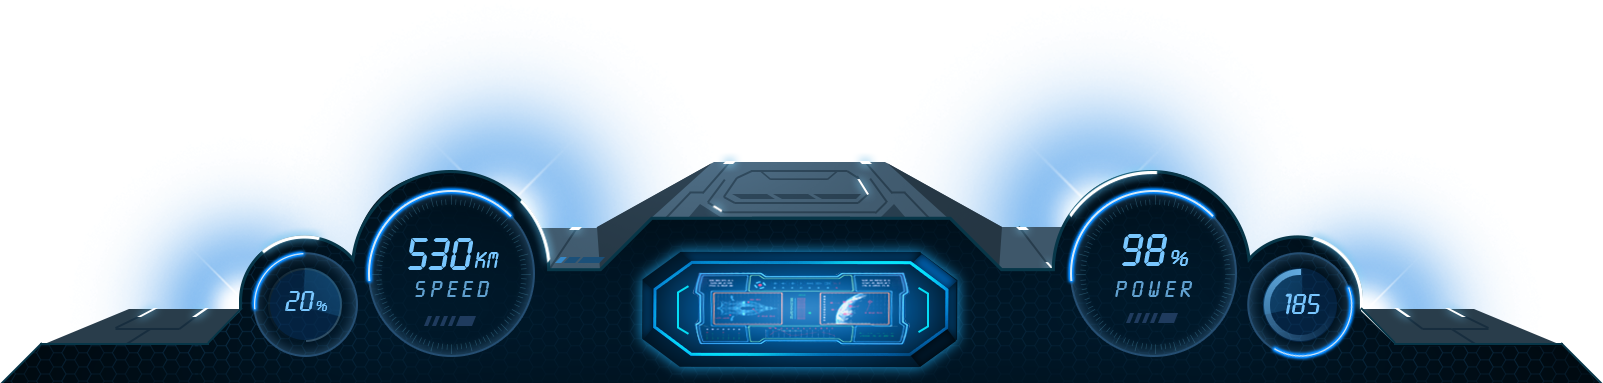
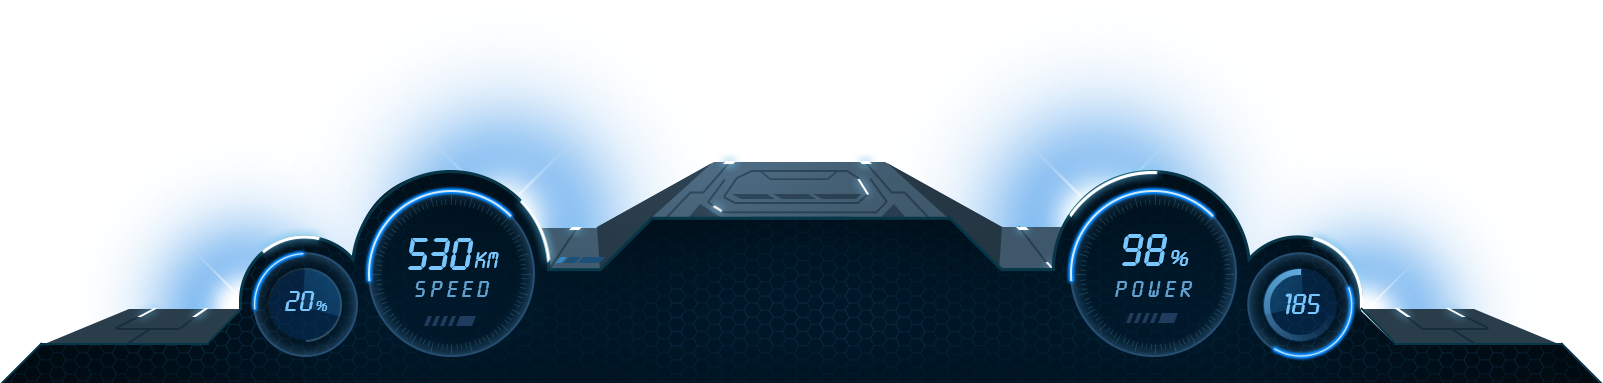
add planet

Changed region(s): [[0.3743, 0.6319, 0.6238, 1.0]]

diff --git a/js/page.js b/js/page.js
@@ -1,4 +1,4 @@
-(function ($) {
+(function ($, TL, TM) {
 	var HONOR = {};
 
 	// 入场动画
@@ -11,7 +11,8 @@
 			currentChar = 1;
 
 		var init = function(){
-			startTyping(text, 50, "test");
+			// startTyping(text, 50, "test");
+			showPlanet();
 		}
 
 		var type = function(){
@@ -23,6 +24,10 @@
 				if (currentChar<=text.length)
 				{
 					setTimeout(type, delay);
+				}else{
+					console.log("complete")
+					// 显示星球
+
 				}
 			}	
 		}
@@ -34,15 +39,39 @@
 			destination=destinationParam;
 			type();
 		}
+
+		var showPlanet = function(){
+			var planet1 = $('.planet-1');
+			var planet2 = $('.planet-2');
+			TL.from(planet1, 5, {left: '50%', top: '0%', scale: .1, opacity: .5, onComplete: completePlanetHandler})
+			TL.from(planet2, 5, {left: '40%', top: '45%', scale: .3, opacity: .5})
+		}
+
+		var completePlanetHandler = function(){
+			// 显示猜题入口
+			console.log('jajs')
+		}
 		
 		return {
 			init: init
 		};
 	})();
 
+	// 控制面板
+	HONOR.Panel = (function(){
+		var init = function(){
+
+		}
+
+		return {
+			init: init
+		}
+	})();
+
+	// 启动飞船
 	HONOR.Landing.init();
 
-})(jQuery);
+})(jQuery, TweenLite, TweenMax);
 
 
 

diff --git a/scss/partials/panel.scss b/scss/partials/panel.scss
@@ -1,0 +1,48 @@
+.panel{
+	position: fixed;
+	width: percentage(1603/1920);
+	height: percentage(383/1080);
+	bottom: 0;
+	left: 50%;
+	margin-left: -1/2 * percentage(1603/1920);
+	background: url(../images/ship.png) center bottom no-repeat;
+	background-size: contain;
+	.statusBox{
+		position: absolute;
+		width: percentage(345/1603);
+		height: percentage(145/383);
+		left: 50%;
+		margin-left: -1/2 * percentage(345/1603);
+		bottom: 0;
+		a{
+			position: absolute;
+			top: 0;
+		    bottom: 0;
+		    left: 0;
+		    right: 0;
+			text-align: center;
+			cursor: pointer;
+			span{
+				font-size: 18px;
+				color: #fff;
+				display: inline-block;
+   				vertical-align: middle;
+			}
+			&:before{
+				content: '';
+			    display: inline-block;
+			    vertical-align: middle;
+			    height: 100%;
+			}
+		}
+		.default{
+			display: none;
+			background: url(../images/panel-status-default.png) center bottom no-repeat;
+			background-size: contain;
+		}
+		.start{
+			background: url(../images/panel-status-progress.png) center bottom no-repeat;
+			background-size: contain;
+		}
+	}
+}

diff --git a/index.html b/index.html
@@ -9,6 +9,14 @@
 <body>
 	<!-- Main -->
 	<div class="scene full">
+		<!--星球-->
+		<div class="planets full">
+			<div class="planet-1"></div>
+			<div class="planet-2"></div>
+			<div class="planet-3"></div>
+			<div class="planet-4"></div>
+			<div class="planet-5"></div>
+		</div>
 		<!--对话框-->
 		<div class="text-container">
 			<table><tr><td id="test"></td></tr></table>
@@ -20,8 +28,17 @@
 	</div>
 
 	<!-- Control Pane -->
-	<div class="pane">
-		
+	<div class="panel">
+		<div class="statusBox">
+			<!--默认-->
+			<a class="default"></a>
+			<!--开始-->
+			<a class="start"><span>去猜！LET'S GO!</span></a>
+			<!--下一题-->
+			<a class="next"></a>
+			<!--提交-->
+			<a class="submit"></a>
+		</div>
 	</div>
 
 	<!-- Naviagtion & Share Tools -->

diff --git a/scss/partials/planet.scss b/scss/partials/planet.scss
@@ -1,0 +1,23 @@
+.planets{
+	.planet-1{
+		width: percentage(1287/$defaultWidth);
+		height: percentage(1493/$defaultHeight);
+		position: absolute;
+		opacity: .8;
+		left: 50%;
+		top: 20%;
+		margin-left: -1/2 * percentage(1287/$defaultWidth);
+		background: url(../images/planet-1.png) no-repeat;
+		background-size: contain;
+	}
+	.planet-2{
+		width: percentage(361/$defaultWidth);
+		height: percentage(322/$defaultHeight);
+		position: absolute;
+		opacity: .8;
+		left: -3%;
+		top: 10%;
+		background: url(../images/planet-2.png) no-repeat;
+		background-size: contain;
+	}
+}

diff --git a/scss/partials/scene.scss b/scss/partials/scene.scss
@@ -1,7 +1,9 @@
 .scene{
+	overflow: hidden;
 	background: url(../images/bg.jpg) center center no-repeat;
 	background-size: cover;
 	.text-container{
+		display: none;
 		position: absolute;
 		left: 50%;
 		top: percentage(260/$defaultHeight);

diff --git a/scss/main.scss b/scss/main.scss
@@ -18,4 +18,5 @@ $defaultHeight: 1080;
 @import './partials/reset';
 @import './partials/public';
 @import './partials/scene';
-@import './partials/pane';
+@import './partials/panel';
+@import './partials/planet';
